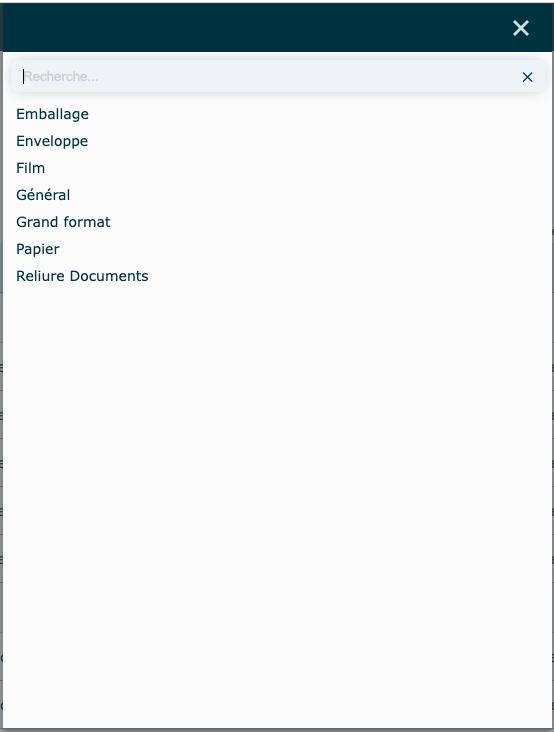
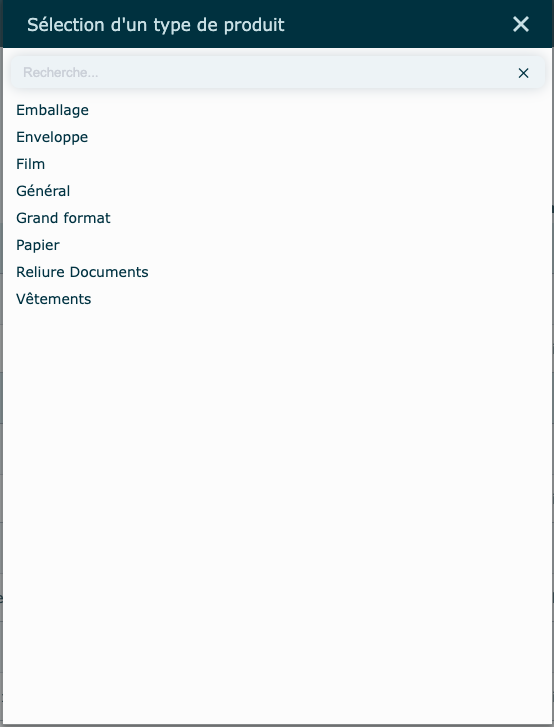
ajout sprint 2.2, vêtements et standards.

Changed region(s): [[0.0, 0.0, 1.0, 0.4237]]

diff --git a/docs/estimation/soumissions.md b/docs/estimation/soumissions.md
@@ -55,6 +55,13 @@ Vous pourrez cliquer sur Corriger pour voir les champs en surbrillance (contour 
 
   Sert de modèle de base duquel repartir pour créer une nouvelle soumission (dupliquer), permet de sauver du temps et d'avoir des soumissions uniformes. Les items d'une soumission modèle ne peuvent être ni révisés ni servir pour la création d'un dossier.
 
+
+### Numérotation {#numerotation}
+
+Comme dans la plupart des modules, vous avez accès à définir la numérotation de vos soumissions ainsi que de vos modèles (Numéro alternatif de série).
+Veuillez vous rendre dans les [Paramètres Système](../parametres/systeme.md#numerotations) pour les modifier. 
+
+
 ## Informations de base {#infos-base}
 
 La portion du **haut** contient les informations de base de la soumission.
@@ -274,7 +281,7 @@ Exemple ➝ Du graphisme, de la mise en page, de la calibration de couleurs etc.
 
 ### Plaques {#plaques}
 
-Section disponible seulement lorsque le procédé d'impression utilise des plaques.
+Section disponible seulement lorsque le procédé d'impression utilise des plaques. Sinon, l'onglet sera masqué et l'information "plaques/blanchets" sera masquée au sommaire.
 
 ![](/img/Soumissions_30.png)
 
@@ -318,9 +325,14 @@ Une seule différence est visible : l'encadré informatif **Composante visée**.
 
   ![](/img/Soumissions_36.png)
 
-  Le système évalue systématiquement la nécessité de couteau avant et/ou après impression. Dans certains cas, il est possible que vous n'en ayez pas besoin, dans ces cas précis cochez la case. Cela évite un recalcul constant.
+:::note
+  Le système évalue systématiquement la nécessité de **couteau avant et/ou après** impression et créera une opération automatiquement. Dans certains cas, il est possible que vous n'en ayez pas besoin, dans ces cas précis cochez la case. Cela évite un recalcul constant.
 
   Exemple ➝ la coupe peut ne pas être nécessaire pour le numérique ou si le travail est découpé.
+
+  L'opération de coupe avant se créera toujours au début de la liste, puisqu'elle doit être faite avant l'impression. 
+
+:::
 
 #### Emballages
 
@@ -426,6 +438,10 @@ Nous y accédons directement dans un item, en haut à droite.
 
 ![](/img/Soumissions_53.png)
 
+:::note
+Si aucun procédé n'utilise des Plaques/blanchets ou des Encres, ces lignes seront masquées.
+:::
+
 La partie du bas permet de faire des modification, cliquez dessus pour y accéder.
 
 ![](/img/Soumissions_56.png)
@@ -456,6 +472,10 @@ Si vous supprimez tout le texte, la case sera alors vidée et le texte original 
 ![](/img/Proposition_texteManuel_1.png)
 ![](/img/Proposition_texteManuel_2.png)
 
+Vous pouvez masquer des options de quantité à votre client, simplement en cliquant sur le petit oeil au bout de la ligne. 
+![](/img/Proposition_masque.png)
+
+
 **Enregistrer** pour confirmer et fermer la fenêtre.
 
 **Enregistrer & Envoyer** pour envoyer la proposition au client par [courriel](../fonctionnalites-generales/courriels.md).
@@ -469,6 +489,12 @@ Si vous supprimez tout le texte, la case sera alors vidée et le texte original 
 #### En mode consultation, fenêtre de la Soumission
 
 - Dupliquer
+
+Si vous avez plusieurs items sur une soumission, une fenêtre ouvrira pour sélectionner ceux que vous voulez dupliquer. 
+Si un seul item existe, il sera automatiquement dupliqué. 
+
+![](/img/Soumissions_dupliquer.png)
+
 - Supprimer
 
   Si le bouton est grisé, impossible de faire la suppression.

diff --git a/docs/contacts/clients.md b/docs/contacts/clients.md
@@ -46,11 +46,16 @@ Le dernier onglet permet de consigner différentes [notes](../fonctionnalites-ge
   ### Coordonnées
      Les champs marqués d'une [étoile](../fonctionnalites-generales/champs.md#champs-obligatoires) sont obligatoires.
      ![](/img/Clients_5.png)
-     **Remplissage automatique par Google : Abonnement requis** pour cette [fonction](../fonctionnalites-generales/recherche-adresse.md).
+
+     :::info
+    **Remplissage automatique par Google : Abonnement requis** pour cette [fonction](../fonctionnalites-generales/recherche-adresse.md).![](/img/Googlemaps.png)
+    :::
      
      Vous devrez compléter l'adresse ici ⤵ 
      
      À noter que si la sélection d'un pays fait en sorte qu'il n'y a pas de province liée, le champ Province ne sera pas obligatoire. Par défaut, à la création d'un client, le Canada et Québec seront inscrits comme Pays et Province.
+
+     Également, si votre client est un **Prospect**, vous pourrez sortir sans écrire d'adresse et y revenir quand il deviendra un client actif. 
      
      ![](/img/Clients_6_google.png)
   ### Informations additionnelles
@@ -144,8 +149,10 @@ Icônes possibles à côté d'une adresse :
 - Cliquer sur **l'icône** ![](/img/Contacts_2_iconeajout.png)
 - Remplir la fiche
 
-**Remplissage automatique par Google : Abonnement requis** pour cette [fonction](../fonctionnalites-generales/recherche-adresse.md).
- ![](/img/Googlemaps.png)
+:::info
+**Remplissage automatique par Google : Abonnement requis** pour cette [fonction](../fonctionnalites-generales/recherche-adresse.md).![](/img/Googlemaps.png)
+:::
+ 
      
   Adresse à compléter ⤵ les champs marqués d'une [étoile](../fonctionnalites-generales/champs.md#champs-obligatoires) sont obligatoires.
   

diff --git a/docs/achats/produits.md b/docs/achats/produits.md
@@ -87,6 +87,32 @@ Simplement modifier les informations directement dans la fiche du produit.
 
 Aucune sauvegarde n'est nécessaire.
 
+
+### Vêtements {#vetements}
+
+Puisque la définition d'un produit Vêtements est un peu particulière, nous avons prévu une section pour ce type.
+
+  - Vous pouvez définir un prix par grandeur dans les fournisseurs.
+    - Les grandeurs sont les suivantes : OS (one size), S, M, L, XL, 2XL, 3XL et 4XL
+    - Vous pouvez également copier-coller l'URL de votre produit sur le site web de votre fournisseur.
+  ![](/img/Vetements_01a.png)
+  
+  - Il est possible d'attribuer un modèle aux vêtements (homme, femme, enfants, unisexe).
+  ![](/img/Vetements_02.png)
+  ![](/img/Vetements_06.png)
+
+
+  - Ces modèles peuvent être gérés dans les [Standards](../parametres/standards.md#modeles)
+  ![](/img/Vetements_Modeles_01.png)
+
+  - Les prix coûtant et vendant sont affichés dans des nouveaux "popover", étant donné la possibilité d'en avoir plusieurs.
+  ![](/img/Vetements_04.png)
+  ![](/img/Vetements_05.png)
+
+  - Dans la liste virtuelle, s'il y a plusieurs prix différents par grandeur, le prix le plus élevé sera affiché.
+  ![](/img/Vetements_08.png)
+
+
 ---
 
 ## Historique de commande {#historique}
@@ -97,7 +123,9 @@ Cliquez sur une ligne pour consulter la commande.
 
     ![](/img/Produits_08.png)
 
+
 ---
+
 
 ## Actions diverses {#acions}
 

diff --git a/docs/contacts/fournisseurs.md b/docs/contacts/fournisseurs.md
@@ -42,8 +42,9 @@ Le dernier onglet permet de consigner différentes [notes](../fonctionnalites-ge
    - **Coordonnées**
      Les champs marqués d'une [étoile](../fonctionnalites-generales/champs.md#champs-obligatoires) sont obligatoires.
 
-     **Remplissage automatique par Google : Abonnement requis** pour cette [fonction](../fonctionnalites-generales/recherche-adresse.md).
-     ![](/img/Googlemaps.png)
+    :::info
+    **Remplissage automatique par Google : Abonnement requis** pour cette [fonction](../fonctionnalites-generales/recherche-adresse.md).![](/img/Googlemaps.png)
+    :::
      
     
      Adresse à compléter ici ⤵

diff --git a/docs/parametres/systeme.md b/docs/parametres/systeme.md
@@ -64,6 +64,8 @@ Ayez la latitude de modifier les termes qui apparaissent sur les différents for
 
 Personnalisez la numérotation de vos différents modules.
 
+Le Numéro alternatif de série sert à définir la séquence de vos factures finales, puis vos modèles de soumissions.
+
 ![](/img/Parametres_Systeme_6.png)
 
 ### Valeurs par défaut {#defauts}

diff --git a/docs/parametres/standards.md b/docs/parametres/standards.md
@@ -106,6 +106,12 @@ Définissez vos catégories de produits ( matières premières ou autres), les c
 
 ![](/img/Parametres_Standards_12.png)
 
+### Modèles {#modeles}
+
+Définissez vos modèles par type de produits.
+
+![](/img/Vetements_Modeles_01.png)
+
 ### Réquisitions {#requisitions}
 
 ![](/img/Parametres_Standards_13.png)
